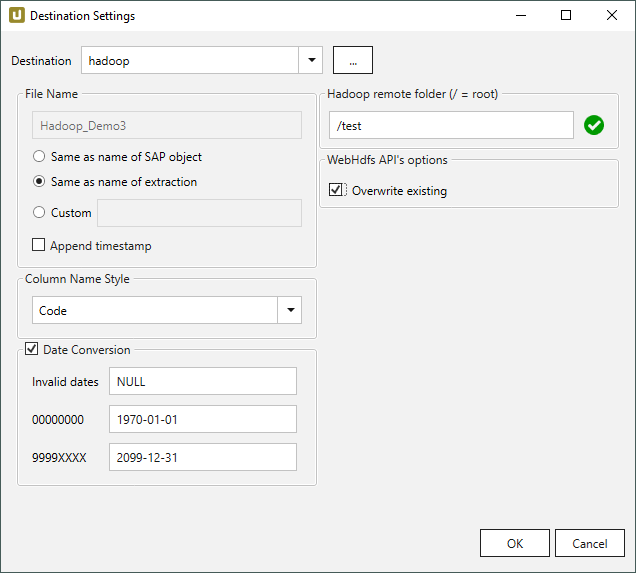
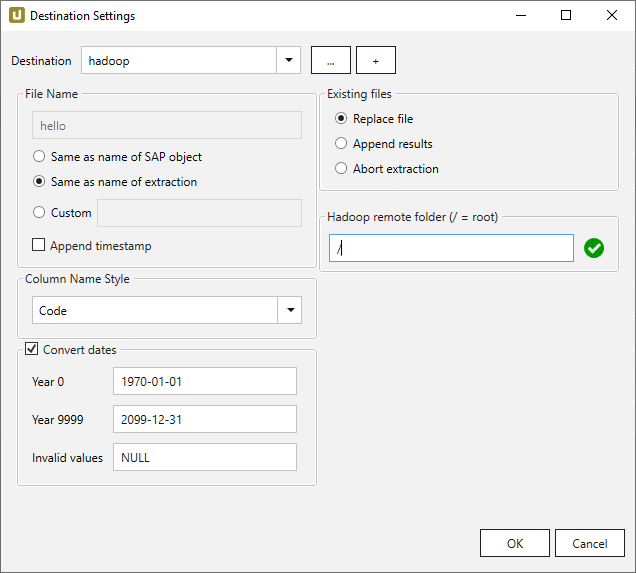
XU: Hadoop Existing Files added

diff --git a/content/_de/xtract-universal/destinationen/hadoop.md b/content/_de/xtract-universal/destinationen/hadoop.md
@@ -90,6 +90,10 @@ Damit wird die Kompatibilität zu Azure Data Factory, Hadoop und Spark sicherges
 
 {% include _content/de/xu-specific/destinationen/general/file-name-script-expressions.md %}
 {% include _content/de/xu-specific/destinationen/general/date-conversion.md %}
+{% include _content/de/xu-specific/destinationen/general/existing-files.md %}
+
+{: .box-note }
+**Hinweis:** Die Operation **Append results**, bei der Daten in einer Zieldatei ergänzt werden, funktioniert nur für csv-Dateien.
 
 ### Hadoop Remote Folder
 
@@ -98,18 +102,8 @@ Unterordner werden ebenfalls unterstützt und können wie folgt eingegeben werde
 Falls nicht vorhanden, wird ein neuer Ordner erstellt.
 Wenn kein Ordner angegeben wird, werden die Daten in das root-Verzeichnis geschrieben.
 
-{: .box-note }
-**Hinweis:** Anstatt eines festen Verzeichnisses, kann der Verzeichnispfad mithilfe von [Skript-Ausdrücken](../fortgeschrittene-techniken/script-ausdruecke) definiert werden. 
-Dabei wird der Verzeichnispfad dynamisch beim Ausführen der Extraktion ermittelt.
-
 {% include _content/de/xu-specific/destinationen/general/folder-script-expressions.md %}
 
-
-### WebHdfs API's Option
-
-**Overwrite existing**<br>
-Wenn diese Option aktiviert ist, werden Dateien mit gleichem Namen überschrieben.<br>
-Wenn diese Option nicht aktiviert ist und der Zielordner eine Datei mit demselben Namen wie die neue Datei enthält, schlägt der Upload fehl.
 
 *****
 ### Weierführende Links

diff --git a/content/_en/xtract-universal/destinations/hadoop.md b/content/_en/xtract-universal/destinations/hadoop.md
@@ -92,6 +92,11 @@ This is to ensure that all uploaded objects are compatible with Azure Data Facto
 
 {% include _content/en/xu-specific/destinations/general/date-conversion.md %}
 
+{% include _content/en/xu-specific/destinations/general/existing-files.md %}
+
+{: .box-note }
+**Note:** The append operation only works for csv files.
+
 ### Hadoop Remote Folder
 
 Enter the name of a folder to write the data in.<br>
@@ -101,11 +106,6 @@ If no folder is entered, the data will be written into the root folder.
 
 {% include _content/en/xu-specific/destinations/general/folder-script-expressions.md %}
 
-### WebHdfs API's Option
-
-**Overwrite existing**<br>
-If this option is active, files with the same name will be overwritten.<br>
-If this option is not active and the target folder contains a file with the same name as the new file, the upload will fail.
 
 *****
 ### Related Links
